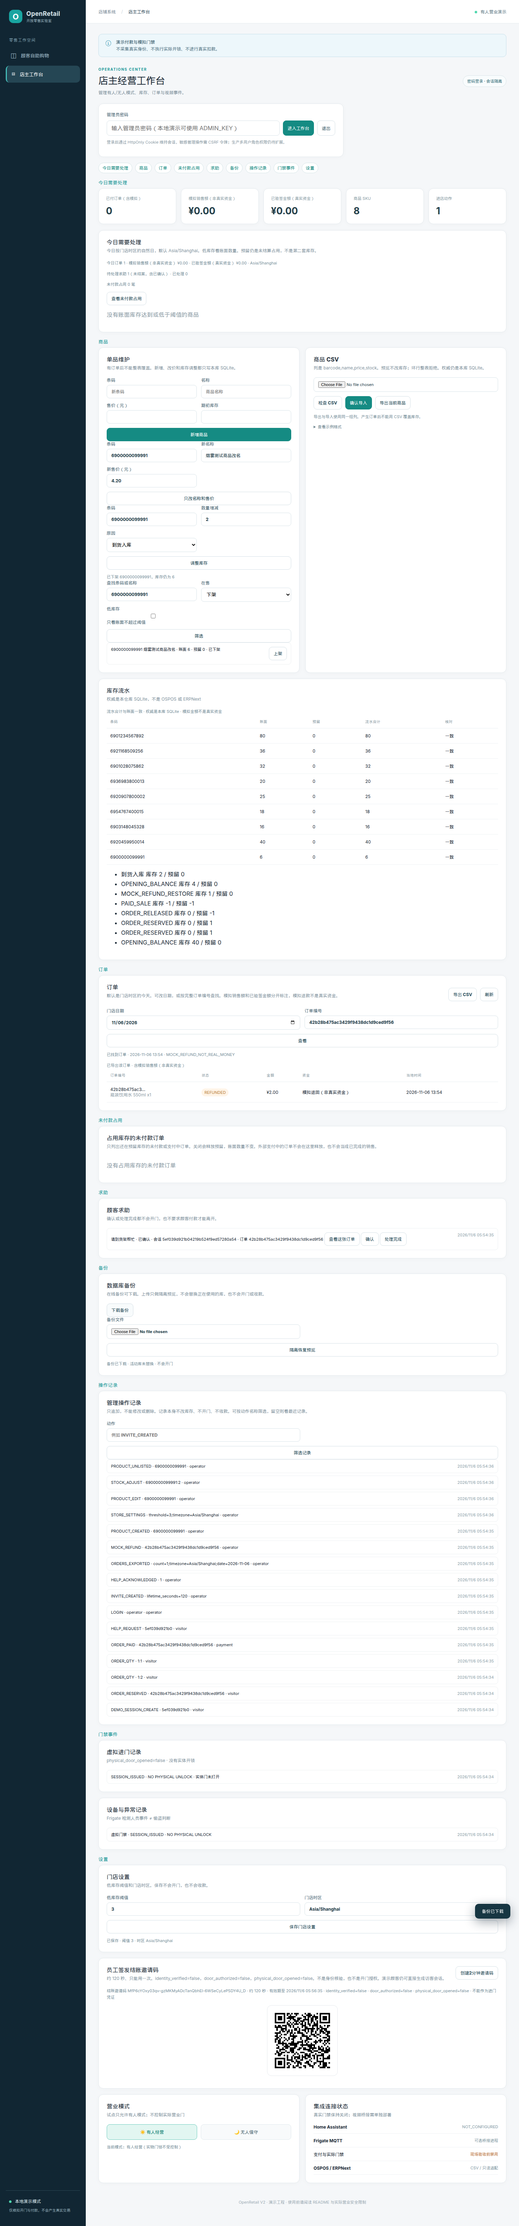
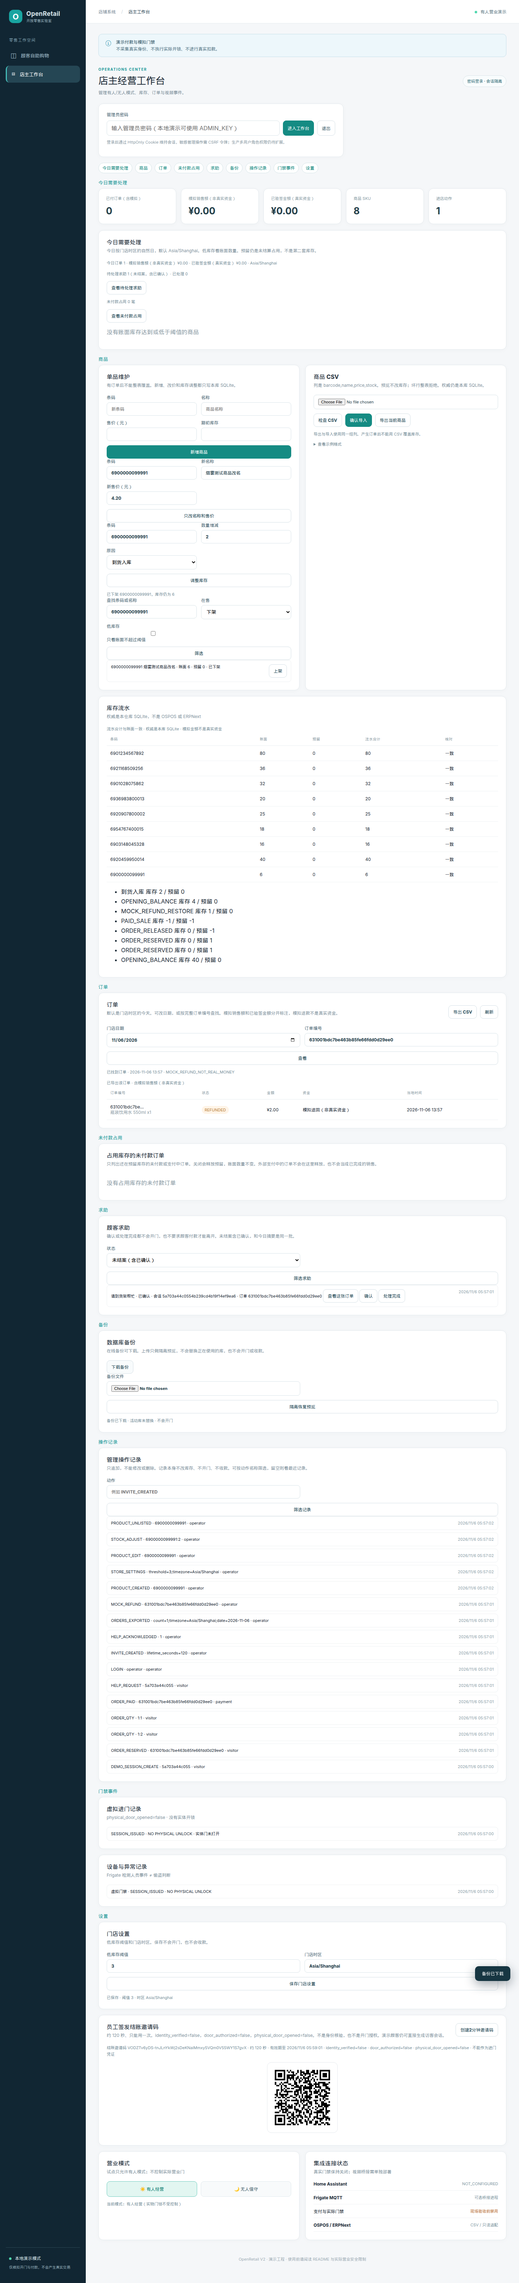
Let staff jump to unfinished help and filter that list by status.
The attention filter is the same OPEN plus ACKNOWLEDGED set as today's summary, and it does not change the notes.

diff --git a/web/app.js b/web/app.js
@@ -51,7 +51,7 @@ async function resumeSavedSession(){if(!state.token)return;try{const status=awai
 async function createOrder(){if(!state.token)throw Error('先创建访客会话');const req={request_id:(crypto.randomUUID?.()||('demo-'+Date.now()+'-'+Math.random())),lines:[...state.cart].map(([product_id,quantity])=>({product_id,quantity}))};let r;try{r=await api('/api/orders',{method:'POST',body:req,guest:true})}catch(e){if((e.message||'').includes('已有待付款订单'))await refreshMine();throw e}rememberOrder(r);$('payment-qr').hidden=true;showPay(r);renderCart();await refreshMine();return r}
 async function confirmMock(){const r=await api('/api/payments/mock-confirm',{method:'POST',body:{order_id:state.orderId},guest:true});showPay(r);if(r.status==='PAID'){state.lastOrderId=r.id||state.orderId;state.cart.clear();state.orderId='';state.orderTotal=null;state.orderLines=null;$('cancel-order-btn').disabled=true;$('pay-btn').disabled=true;await loadProducts()}await refreshMine();return r}
 function fundLabel(order){if(order.status==='PAID'&&order.provider==='MOCK_NOT_REAL_MONEY')return '模拟销售额';if(Number(order.verified)===1)return '已验签真实资金';if(order.status==='REFUNDED'&&order.provider==='MOCK_NOT_REAL_MONEY')return '模拟退回';return '未收款'}
-async function adminRefresh(){if(!state.csrf)return;const [overview,orders,events,ledger,help,catalog,audit,holding]=await Promise.all([api('/api/admin/overview',{admin:true}),api(ordersQuery(),{admin:true}),api('/api/admin/events',{admin:true}),api('/api/admin/inventory-ledger',{admin:true}),api('/api/admin/help-requests',{admin:true}),api(catalogQuery(),{admin:true}),api(auditQuery(),{admin:true}),api('/api/admin/orders/holding',{admin:true})]);$('admin-body').hidden=false;$('m-orders').textContent=overview.paid_orders;$('m-sales').textContent=money(overview.simulated_revenue_cents);$('m-real').textContent=money(overview.verified_revenue_cents);$('today-summary').textContent='今日订单 '+overview.today_order_count+' · 模拟销售额（非真实资金） '+money(overview.today_simulated_revenue_cents)+' · 已验签金额（真实资金） '+money(overview.today_verified_revenue_cents)+' · '+overview.store_timezone;$('low-stock-threshold').value=overview.low_stock_threshold;$('store-timezone').value=overview.store_timezone;if(orders.local_date&&(!$('order-date').value||($('order-lookup').value||'').trim()))$('order-date').value=orders.local_date;const looked=($('order-lookup').value||'').trim();$('order-lookup-status').textContent=looked?(orders.orders&&orders.orders.length?('已找到订单 · '+orders.orders[0].local_time+' · '+(orders.orders[0].money_label==='MOCK_NOT_REAL_MONEY'?'模拟销售额（非真实资金）':(orders.orders[0].money_label||''))):'未找到订单'):('门店日期 '+(orders.local_date||'')+' · '+(orders.orders||[]).length+' 笔');$('admin-catalog').innerHTML=catalog.map(p=>`<div class="event"><span>${esc(p.barcode)} ${esc(p.name)} · 账面 ${p.stock} · 预留 ${p.reserved_stock} · ${p.active?'在售':'已下架'}</span><button class="btn secondary" type="button" data-listing-id="${p.id}" data-listing-barcode="${esc(p.barcode)}" data-listing-active="${p.active?0:1}">${p.active?'下架':'上架'}</button></div>`).join('')||'<p class="muted">没有商品</p>';$('audit-list').innerHTML=(audit.events||[]).map(e=>`<div class="event"><span>${esc(e.action)} · ${esc(e.detail)} · ${esc(e.actor)}</span><time>${time(e.created_at)}</time></div>`).join('')||'<p class="muted">没有操作记录</p>';$('help-attention').textContent='待处理求助 '+overview.help_needs_attention+'（未结案，含已确认） · 已处理 '+overview.help_resolved;$('holding-attention').textContent='未付款占用 '+(holding.orders||[]).length+' 笔';$('low-stock-list').innerHTML=(overview.low_stock||[]).map(p=>`<div class="event"><span>${esc(p.barcode)} ${esc(p.name)} · 账面 ${p.stock} · 预留 ${p.reserved_stock} · 可售 ${p.available_stock}</span><button class="btn secondary" type="button" data-find-product="${esc(p.barcode)}">在商品里查找</button></div>`).join('')||'<p class="muted">没有账面库存达到或低于阈值的商品</p>';$('m-products').textContent=overview.products;$('m-entries').textContent=overview.door_events;$('mode-info').textContent='当前模式：'+(overview.mode==='UNATTENDED'?'无人值守':'有人经营')+'（实物门锁不受控制）';$('ha-state').textContent=overview.home_assistant.status;$('mode-staffed').classList.toggle('selected',overview.mode==='STAFFED');$('mode-unattended').classList.toggle('selected',overview.mode==='UNATTENDED');const todayOrders=orders.orders||[];$('order-table').innerHTML=todayOrders.map(o=>{const refund=o.status==='PAID'&&o.provider==='MOCK_NOT_REAL_MONEY'&&Number(o.verified)!==1?`<button class="btn secondary" type="button" data-mock-refund="${esc(o.id)}">模拟退款</button>`:'';const label=o.money_label==='MOCK_NOT_REAL_MONEY'?'模拟销售额（非真实资金）':o.money_label==='VERIFIED_REAL_MONEY'?'已验签金额（真实资金）':o.money_label==='MOCK_REFUND_NOT_REAL_MONEY'?'模拟退回（非真实资金）':fundLabel(o);return `<tr><td title="${esc(o.id)}">${esc(o.id.slice(0,12))}…<div class="muted">${esc(o.items||'')}</div></td><td><span class="status ${o.status==='PAID'?'paid':''}">${esc(o.status)}</span></td><td>${money(o.total_cents)}</td><td>${esc(label)}</td><td>${esc(o.local_time||'')}</td><td>${refund}</td></tr>`}).join('')||'<tr><td colspan="6">这一天没有订单</td></tr>';$('holding-list').innerHTML=(holding.orders||[]).map(o=>{const action=o.closable?`<button class="btn secondary" type="button" data-close-order="${esc(o.id)}">释放预留</button>`:`<span>${esc(o.note||'不能在这里释放')}</span>`;return `<div class="event"><span>${esc(o.id.slice(0,12))}… · ${esc(o.local_time||'')} · ${money(o.total_cents)} · ${esc(o.status)} · ${esc(o.items||'')} · 未付款 · 非真实资金${o.expires_local?' · 预留至 '+esc(o.expires_local):''}</span>${action}</div>`}).join('')||'<p class="muted">没有占用库存的未付款订单</p>';$('ledger-balance').textContent=(ledger.balanced?'流水合计与账面一致':'流水与账面不一致，需要人工核对')+' · 权威是本库 SQLite · 模拟金额不是真实资金';$('ledger-table').innerHTML=ledger.products.map(p=>`<tr><td>${esc(p.barcode)}</td><td>${p.stock}</td><td>${p.reserved_stock}</td><td>${p.ledger_stock}</td><td>${p.balanced?'一致':'不一致'}</td></tr>`).join('')||'<tr><td colspan="5">没有商品</td></tr>';$('ledger-moves').innerHTML=ledger.movements.slice(0,8).map(m=>`<li>${esc(m.reason)} 库存 ${m.stock_delta} / 预留 ${m.reserved_delta}</li>`).join('');const helpLabel={OPEN:'待处理',ACKNOWLEDGED:'已确认',RESOLVED:'已处理'};$('help-list').innerHTML=(help.requests||[]).map(h=>{const buttons=h.status==='RESOLVED'?'':`<button class="btn secondary" type="button" data-help-id="${esc(h.id)}" data-help-status="ACKNOWLEDGED">确认</button> <button class="btn secondary" type="button" data-help-id="${esc(h.id)}" data-help-status="RESOLVED">处理完成</button>`;const find=h.order_id?`<button class="btn secondary" type="button" data-find-order="${esc(h.order_id)}">查看这张订单</button>`:'';return `<div class="event"><span>${esc(h.message)} · ${esc(helpLabel[h.status]||h.status)} · 会话 ${esc(h.session_id||'无')} · 订单 ${esc(h.order_id||'无')} ${find} ${buttons}</span><time>${time(h.created_at)}</time></div>`}).join('')||'<p class="muted">没有求助</p>';$('door-lock-note').textContent=events.physical_door_opened===false?'physical_door_opened=false · 没有实体开锁':'门状态异常';$('door-event-list').innerHTML=(events.door||[]).map(e=>`<div class="event"><span>${esc(e.result)} · ${esc(e.detail)} · 实体门未打开</span><time>${time(e.created_at)}</time></div>`).join('')||'<p class="muted">没有虚拟进门记录</p>';const incident=events.frigate.map(e=>({name:'Frigate 人员事件 · '+e.camera+' · '+e.event_type,t:e.created_at})),doors=events.door.map(e=>({name:'虚拟门禁 · '+e.result+' · '+e.detail,t:e.created_at}));$('event-list').innerHTML=[...incident,...doors].sort((a,b)=>b.t-a.t).slice(0,15).map(e=>`<div class="event"><span>${esc(e.name)}</span><time>${time(e.t)}</time></div>`).join('')||'<p class="muted">暂无设备事件</p>'}
+async function adminRefresh(){if(!state.csrf)return;const [overview,orders,events,ledger,help,catalog,audit,holding]=await Promise.all([api('/api/admin/overview',{admin:true}),api(ordersQuery(),{admin:true}),api('/api/admin/events',{admin:true}),api('/api/admin/inventory-ledger',{admin:true}),api(helpQuery(),{admin:true}),api(catalogQuery(),{admin:true}),api(auditQuery(),{admin:true}),api('/api/admin/orders/holding',{admin:true})]);$('admin-body').hidden=false;$('m-orders').textContent=overview.paid_orders;$('m-sales').textContent=money(overview.simulated_revenue_cents);$('m-real').textContent=money(overview.verified_revenue_cents);$('today-summary').textContent='今日订单 '+overview.today_order_count+' · 模拟销售额（非真实资金） '+money(overview.today_simulated_revenue_cents)+' · 已验签金额（真实资金） '+money(overview.today_verified_revenue_cents)+' · '+overview.store_timezone;$('low-stock-threshold').value=overview.low_stock_threshold;$('store-timezone').value=overview.store_timezone;if(orders.local_date&&(!$('order-date').value||($('order-lookup').value||'').trim()))$('order-date').value=orders.local_date;const looked=($('order-lookup').value||'').trim();$('order-lookup-status').textContent=looked?(orders.orders&&orders.orders.length?('已找到订单 · '+orders.orders[0].local_time+' · '+(orders.orders[0].money_label==='MOCK_NOT_REAL_MONEY'?'模拟销售额（非真实资金）':(orders.orders[0].money_label||''))):'未找到订单'):('门店日期 '+(orders.local_date||'')+' · '+(orders.orders||[]).length+' 笔');$('admin-catalog').innerHTML=catalog.map(p=>`<div class="event"><span>${esc(p.barcode)} ${esc(p.name)} · 账面 ${p.stock} · 预留 ${p.reserved_stock} · ${p.active?'在售':'已下架'}</span><button class="btn secondary" type="button" data-listing-id="${p.id}" data-listing-barcode="${esc(p.barcode)}" data-listing-active="${p.active?0:1}">${p.active?'下架':'上架'}</button></div>`).join('')||'<p class="muted">没有商品</p>';$('audit-list').innerHTML=(audit.events||[]).map(e=>`<div class="event"><span>${esc(e.action)} · ${esc(e.detail)} · ${esc(e.actor)}</span><time>${time(e.created_at)}</time></div>`).join('')||'<p class="muted">没有操作记录</p>';$('help-attention').textContent='待处理求助 '+overview.help_needs_attention+'（未结案，含已确认） · 已处理 '+overview.help_resolved;$('holding-attention').textContent='未付款占用 '+(holding.orders||[]).length+' 笔';$('low-stock-list').innerHTML=(overview.low_stock||[]).map(p=>`<div class="event"><span>${esc(p.barcode)} ${esc(p.name)} · 账面 ${p.stock} · 预留 ${p.reserved_stock} · 可售 ${p.available_stock}</span><button class="btn secondary" type="button" data-find-product="${esc(p.barcode)}">在商品里查找</button></div>`).join('')||'<p class="muted">没有账面库存达到或低于阈值的商品</p>';$('m-products').textContent=overview.products;$('m-entries').textContent=overview.door_events;$('mode-info').textContent='当前模式：'+(overview.mode==='UNATTENDED'?'无人值守':'有人经营')+'（实物门锁不受控制）';$('ha-state').textContent=overview.home_assistant.status;$('mode-staffed').classList.toggle('selected',overview.mode==='STAFFED');$('mode-unattended').classList.toggle('selected',overview.mode==='UNATTENDED');const todayOrders=orders.orders||[];$('order-table').innerHTML=todayOrders.map(o=>{const refund=o.status==='PAID'&&o.provider==='MOCK_NOT_REAL_MONEY'&&Number(o.verified)!==1?`<button class="btn secondary" type="button" data-mock-refund="${esc(o.id)}">模拟退款</button>`:'';const label=o.money_label==='MOCK_NOT_REAL_MONEY'?'模拟销售额（非真实资金）':o.money_label==='VERIFIED_REAL_MONEY'?'已验签金额（真实资金）':o.money_label==='MOCK_REFUND_NOT_REAL_MONEY'?'模拟退回（非真实资金）':fundLabel(o);return `<tr><td title="${esc(o.id)}">${esc(o.id.slice(0,12))}…<div class="muted">${esc(o.items||'')}</div></td><td><span class="status ${o.status==='PAID'?'paid':''}">${esc(o.status)}</span></td><td>${money(o.total_cents)}</td><td>${esc(label)}</td><td>${esc(o.local_time||'')}</td><td>${refund}</td></tr>`}).join('')||'<tr><td colspan="6">这一天没有订单</td></tr>';$('holding-list').innerHTML=(holding.orders||[]).map(o=>{const action=o.closable?`<button class="btn secondary" type="button" data-close-order="${esc(o.id)}">释放预留</button>`:`<span>${esc(o.note||'不能在这里释放')}</span>`;return `<div class="event"><span>${esc(o.id.slice(0,12))}… · ${esc(o.local_time||'')} · ${money(o.total_cents)} · ${esc(o.status)} · ${esc(o.items||'')} · 未付款 · 非真实资金${o.expires_local?' · 预留至 '+esc(o.expires_local):''}</span>${action}</div>`}).join('')||'<p class="muted">没有占用库存的未付款订单</p>';$('ledger-balance').textContent=(ledger.balanced?'流水合计与账面一致':'流水与账面不一致，需要人工核对')+' · 权威是本库 SQLite · 模拟金额不是真实资金';$('ledger-table').innerHTML=ledger.products.map(p=>`<tr><td>${esc(p.barcode)}</td><td>${p.stock}</td><td>${p.reserved_stock}</td><td>${p.ledger_stock}</td><td>${p.balanced?'一致':'不一致'}</td></tr>`).join('')||'<tr><td colspan="5">没有商品</td></tr>';$('ledger-moves').innerHTML=ledger.movements.slice(0,8).map(m=>`<li>${esc(m.reason)} 库存 ${m.stock_delta} / 预留 ${m.reserved_delta}</li>`).join('');const helpLabel={OPEN:'待处理',ACKNOWLEDGED:'已确认',RESOLVED:'已处理'};$('help-list').innerHTML=(help.requests||[]).map(h=>{const buttons=h.status==='RESOLVED'?'':`<button class="btn secondary" type="button" data-help-id="${esc(h.id)}" data-help-status="ACKNOWLEDGED">确认</button> <button class="btn secondary" type="button" data-help-id="${esc(h.id)}" data-help-status="RESOLVED">处理完成</button>`;const find=h.order_id?`<button class="btn secondary" type="button" data-find-order="${esc(h.order_id)}">查看这张订单</button>`:'';return `<div class="event"><span>${esc(h.message)} · ${esc(helpLabel[h.status]||h.status)} · 会话 ${esc(h.session_id||'无')} · 订单 ${esc(h.order_id||'无')} ${find} ${buttons}</span><time>${time(h.created_at)}</time></div>`}).join('')||'<p class="muted">没有求助</p>';$('door-lock-note').textContent=events.physical_door_opened===false?'physical_door_opened=false · 没有实体开锁':'门状态异常';$('door-event-list').innerHTML=(events.door||[]).map(e=>`<div class="event"><span>${esc(e.result)} · ${esc(e.detail)} · 实体门未打开</span><time>${time(e.created_at)}</time></div>`).join('')||'<p class="muted">没有虚拟进门记录</p>';const incident=events.frigate.map(e=>({name:'Frigate 人员事件 · '+e.camera+' · '+e.event_type,t:e.created_at})),doors=events.door.map(e=>({name:'虚拟门禁 · '+e.result+' · '+e.detail,t:e.created_at}));$('event-list').innerHTML=[...incident,...doors].sort((a,b)=>b.t-a.t).slice(0,15).map(e=>`<div class="event"><span>${esc(e.name)}</span><time>${time(e.t)}</time></div>`).join('')||'<p class="muted">暂无设备事件</p>'}
 async function run(fn){try{await fn()}catch(e){toast(e.message);console.error(e)}}
 document.addEventListener('click',e=>{const findProduct=e.target.closest('[data-find-product]');if(findProduct){run(async()=>{$('catalog-query').value=findProduct.dataset.findProduct;$('catalog-listing').value='all';$('catalog-low-stock').checked=false;const section=document.getElementById('admin-products');if(section)section.scrollIntoView({block:'start'});await adminRefresh()});return}const findOrder=e.target.closest('[data-find-order]');if(findOrder){run(async()=>{ $('order-lookup').value=findOrder.dataset.findOrder;const section=document.getElementById('admin-orders');if(section)section.scrollIntoView({block:'start'});await adminRefresh();if(!$('order-lookup-status').textContent.includes('已找到订单'))throw Error('没有找到这张订单')});return}const closeHold=e.target.closest('[data-close-order]');if(closeHold){run(async()=>{const r=await api('/api/admin/orders/'+closeHold.dataset.closeOrder+'/mock-close',{admin:true,method:'POST'});if(r.real_money||r.remote_call||r.physical_door_opened||r.stock_changed)throw Error('释放预留不应扣账面、收款或开门');toast(r.outcome==='IDEMPOTENT'?'订单已经关闭':'已释放预留，账面库存未扣');await adminRefresh()});return}const refund=e.target.closest('[data-mock-refund]');if(refund){run(async()=>{const r=await api('/api/admin/orders/'+refund.dataset.mockRefund+'/mock-refund',{admin:true,method:'POST'});toast(r.real_money?'异常：模拟退款不应产生真实资金':'模拟退款已回补库存，不是微信退款');await adminRefresh();await loadProducts()});return}const listing=e.target.closest('[data-listing-id]');if(listing){run(async()=>{const r=await api('/api/admin/products/'+listing.dataset.listingId+'/listing',{admin:true,method:'POST',body:{active:listing.dataset.listingActive==='1'}});if(r.stock_changed||r.physical_door_opened||r.real_door_enabled)throw Error('上下架不应改库存或开门');$('product-status').textContent=(r.active?'已上架':'已下架')+' '+r.barcode+'，库存仍为 '+r.stock;await adminRefresh();await loadProducts();toast(r.active?'已上架':'已下架')});return}const helpAction=e.target.closest('[data-help-status]');if(helpAction){run(async()=>{const r=await api('/api/admin/help-requests/'+helpAction.dataset.helpId+'/status',{admin:true,method:'POST',body:{status:helpAction.dataset.helpStatus}});if(r.physical_door_opened||r.payment_required_to_leave||r.door_authorized)throw Error('处理求助不应开门或要求付款');toast(r.status==='RESOLVED'?'求助已处理，门未打开':'已确认求助，门未打开');await adminRefresh()});return}const nav=e.target.closest('[data-panel]');if(nav){document.querySelectorAll('.nav').forEach(n=>n.classList.toggle('active',n===nav));['shop','admin'].forEach(p=>$('panel-'+p).hidden=p!==nav.dataset.panel);$('current-title').textContent=nav.dataset.panel==='shop'?'顾客自助购物':'店主工作台';if(nav.dataset.panel==='admin')run(adminRefresh)}const addButton=e.target.closest('[data-add]');if(addButton){const id=Number(addButton.dataset.add);if(state.orderId){const current=state.cart.get(id)||0;if(!current){toast('已有待付款订单，请先完成付款或取消订单');return}run(()=>changeOrderQty(id,current+1));return}add(id);return}const minus=e.target.closest('[data-minus]');if(minus){const id=Number(minus.dataset.minus);const current=state.cart.get(id)||0;if(state.orderId){run(()=>changeOrderQty(id,Math.max(0,current-1)));return}if(current<=1)state.cart.delete(id);else state.cart.set(id,current-1);$('pay-btn').disabled=true;renderCart()}});
 $('entry-btn').onclick=()=>run(async()=>{const s=await api('/api/entry',{method:'POST'});state.token=s.guest_token;sessionStorage.setItem('retail_guest',state.token);$('entry-result').textContent='访客会话创建成功（未进行身份核验）；有效期至 '+time(s.expires_at);$('door-btn').disabled=false;await showEntryStatus();renderCart();toast('演示访客会话已创建');armBarcodeField()});
@@ -125,11 +125,14 @@ $('orders-export').onclick=()=>run(async()=>{const headers={};if(state.csrf)head
 $('backup-download').onclick=()=>run(async()=>{const headers={};if(state.csrf)headers['X-CSRF-Token']=state.csrf;const res=await fetch('/api/admin/backup',{credentials:'same-origin',cache:'no-store',headers});if(!res.ok)throw Error('备份下载失败');const blob=await res.blob();if(!blob.size)throw Error('备份内容为空');const link=document.createElement('a');link.href=URL.createObjectURL(blob);link.download='openretail-backup.sqlite3';link.click();URL.revokeObjectURL(link.href);$('restore-report').textContent='备份已下载 · 活动库未替换 · 不会开门';toast('备份已下载')});
 $('restore-preview-form').onsubmit=e=>{e.preventDefault();run(async()=>{const file=$('restore-file').files?.[0];if(!file)throw Error('请选择备份文件');const data=new FormData();data.append('file',file);const headers={};if(state.csrf)headers['X-CSRF-Token']=state.csrf;const res=await fetch('/api/admin/restore-preview',{method:'POST',credentials:'same-origin',headers,body:data});const body=await res.json();if(!res.ok)throw Error(typeof body.detail==='string'?body.detail:'隔离预览失败');if(body.live_replaced||body.physical_door_opened||body.real_door_enabled)throw Error('恢复预览不应替换活动库或开门');$('restore-report').textContent='隔离预览 · integrity_check='+body.integrity+' · 商品 '+body.products+' · 订单 '+body.orders+' · 活动库未替换';toast('只预览了隔离副本')})};
 function ordersQuery(){const params=new URLSearchParams();const id=($('order-lookup').value||'').trim();const date=($('order-date').value||'').trim();if(id)params.set('order_id',id);else{params.set('today','1');if(date)params.set('date',date)}const text=params.toString();return '/api/admin/orders'+(text?'?'+text:'')}
+function helpQuery(){const status=($('help-status')&&$('help-status').value||'').trim();return '/api/admin/help-requests'+(status?'?status='+encodeURIComponent(status):'')}
 function auditQuery(){const action=($('audit-action')&&$('audit-action').value||'').trim();return '/api/admin/audit'+(action?'?action='+encodeURIComponent(action):'')}
 function catalogQuery(){const params=new URLSearchParams();const q=($('catalog-query').value||'').trim();const listing=$('catalog-listing').value||'all';if(q)params.set('q',q);if(listing!=='all')params.set('listing',listing);if($('catalog-low-stock').checked)params.set('low_stock','1');const text=params.toString();return '/api/admin/products'+(text?'?'+text:'')}
 async function adminProduct(barcode){const rows=await api('/api/admin/products',{admin:true});const found=rows.find(item=>item.barcode===barcode);if(!found)throw Error('找不到条码 '+barcode);return found}
 $('catalog-filter').onsubmit=e=>{e.preventDefault();run(async()=>{await adminRefresh();toast('已按条码或名称筛选，库存未改')})};
 $('jump-holding').onclick=()=>{const section=document.getElementById('admin-holding');if(section)section.scrollIntoView({block:'start'})};
+$('jump-help').onclick=()=>{if($('help-status'))$('help-status').value='attention';const section=document.getElementById('admin-help');if(section)section.scrollIntoView({block:'start'});run(async()=>{await adminRefresh()})};
+$('help-filter').onsubmit=e=>{e.preventDefault();run(async()=>{await adminRefresh()})};
 $('audit-filter').onsubmit=e=>{e.preventDefault();run(async()=>{await adminRefresh()})};
 $('product-form').onsubmit=e=>{e.preventDefault();run(async()=>{const f=new FormData(e.target);const r=await api('/api/admin/products',{admin:true,method:'POST',body:{barcode:String(f.get('barcode')).trim(),name:String(f.get('name')).trim(),price_cents:Math.round(Number(f.get('price'))*100),stock:Number(f.get('stock')),active:true}});$('product-status').textContent='已新增 '+r.barcode+'，期初库存 '+r.stock+' 已入账';e.target.reset();await adminRefresh();await loadProducts();toast('商品已新增')})};
 $('edit-form').onsubmit=e=>{e.preventDefault();run(async()=>{const f=new FormData(e.target);const before=await adminProduct(String(f.get('barcode')).trim());const r=await api('/api/admin/products/'+before.id,{admin:true,method:'PATCH',body:{name:String(f.get('name')).trim(),price_cents:Math.round(Number(f.get('price'))*100)}});if(r.stock!==before.stock||r.stock_changed)throw Error('改价不应改库存');$('product-status').textContent='已改名称和售价，库存仍为 '+r.stock;await loadProducts();toast('名称和售价已更新')})};

diff --git a/web/index.html b/web/index.html
@@ -56,7 +56,7 @@
         <section id="admin-today" class="admin-section">
           <h2 class="admin-section-title">今日需要处理</h2>
           <div class="metrics"><div class="metric"><span>已付订单（含模拟）</span><strong id="m-orders">—</strong></div><div class="metric"><span>模拟销售额（非真实资金）</span><strong id="m-sales">—</strong></div><div class="metric"><span>已验签金额（真实资金）</span><strong id="m-real">—</strong></div><div class="metric"><span>商品 SKU</span><strong id="m-products">—</strong></div><div class="metric"><span>进店动作</span><strong id="m-entries">—</strong></div></div>
-          <article class="surface" id="ops-summary"><div class="surface-heading"><div><h2>今日需要处理</h2><p>今日按门店时区的自然日，默认 Asia/Shanghai。低库存看账面数量。预留仍是未结算占用，不是第二套库存。</p></div></div><p id="today-summary" class="inline-note">登录后显示</p><p id="help-attention" class="inline-note">求助未结案：—</p><p id="holding-attention" class="inline-note">未付款占用 —</p><button type="button" id="jump-holding" class="btn secondary">查看未付款占用</button><div id="low-stock-list" class="events"><p class="muted">没有达到阈值的商品</p></div></article>
+          <article class="surface" id="ops-summary"><div class="surface-heading"><div><h2>今日需要处理</h2><p>今日按门店时区的自然日，默认 Asia/Shanghai。低库存看账面数量。预留仍是未结算占用，不是第二套库存。</p></div></div><p id="today-summary" class="inline-note">登录后显示</p><p id="help-attention" class="inline-note">求助未结案：—</p><button type="button" id="jump-help" class="btn secondary">查看待处理求助</button><p id="holding-attention" class="inline-note">未付款占用 —</p><button type="button" id="jump-holding" class="btn secondary">查看未付款占用</button><div id="low-stock-list" class="events"><p class="muted">没有达到阈值的商品</p></div></article>
         </section>
         <section id="admin-products" class="admin-section">
           <h2 class="admin-section-title">商品</h2>
@@ -83,7 +83,7 @@
         </section>
         <section id="admin-help" class="admin-section">
           <h2 class="admin-section-title">求助</h2>
-          <article class="surface"><div class="surface-heading"><div><h2>顾客求助</h2><p>确认或处理完成都不会开门，也不要求顾客付款才能离开。</p></div></div><div id="help-list" class="events"><p class="muted">没有求助</p></div></article>
+          <article class="surface"><div class="surface-heading"><div><h2>顾客求助</h2><p>确认或处理完成都不会开门，也不要求顾客付款才能离开。未结案含已确认，和今日摘要是同一批。</p></div></div><form id="help-filter" class="product-form"><label>状态<select id="help-status" name="status"><option value="">全部</option><option value="attention">未结案（含已确认）</option><option value="OPEN">待处理</option><option value="ACKNOWLEDGED">已确认</option><option value="RESOLVED">已处理</option></select></label><button class="btn secondary" type="submit">筛选求助</button></form><div id="help-list" class="events"><p class="muted">没有求助</p></div></article>
         </section>
         <section id="admin-backup" class="admin-section">
           <h2 class="admin-section-title">备份</h2>

diff --git a/tests/test_help_filter.py b/tests/test_help_filter.py
@@ -1,0 +1,49 @@
+"""Help list filter matches the unfinished count and does not change the notes."""
+from conftest import visitor
+
+
+def test_help_attention_filter_is_read_only(client, admin_header):
+    assert client.get('/api/admin/help-requests').status_code==401
+    assert client.get('/api/admin/help-requests?status=attention').status_code==401
+    guest=visitor(client)
+    product=client.get('/api/products').json()[0]
+    with client.app.state.db.connect() as conn:
+        stock=conn.execute('SELECT stock,reserved_stock FROM products WHERE id=?',(product['id'],)).fetchone()
+        moves=conn.execute('SELECT COUNT(*) n FROM stock_movements').fetchone()['n']
+    open_help=client.post('/api/help',json={'message':'还没人看'}).json()
+    seen=client.post('/api/help',json={'message':'已经看到'}).json()
+    done=client.post('/api/help',json={'message':'已经处理好'}).json()
+    assert client.post(f"/api/admin/help-requests/{seen['id']}/status",headers=admin_header,
+                       json={'status':'ACKNOWLEDGED'}).json()['physical_door_opened'] is False
+    resolved=client.post(f"/api/admin/help-requests/{done['id']}/status",headers=admin_header,
+                         json={'status':'RESOLVED'})
+    assert resolved.status_code==200
+    assert resolved.json()['physical_door_opened'] is False
+    assert resolved.json()['door_authorized'] is False and resolved.json()['payment_required_to_leave'] is False
+    mixed=client.get('/api/admin/help-requests',headers=admin_header).json()
+    assert mixed['status']=='' and mixed['physical_door_opened'] is False
+    statuses={row['id']:row['status'] for row in mixed['requests']}
+    assert statuses[open_help['id']]=='OPEN'
+    assert statuses[seen['id']]=='ACKNOWLEDGED'
+    assert statuses[done['id']]=='RESOLVED'
+    attention=client.get('/api/admin/help-requests?status=attention',headers=admin_header).json()
+    assert attention['status']=='attention'
+    attention_ids={row['id'] for row in attention['requests']}
+    assert open_help['id'] in attention_ids and seen['id'] in attention_ids and done['id'] not in attention_ids
+    assert all(row['status'] in ('OPEN','ACKNOWLEDGED') for row in attention['requests'])
+    only_done=client.get('/api/admin/help-requests?status=RESOLVED',headers=admin_header).json()['requests']
+    assert done['id'] in {row['id'] for row in only_done}
+    assert all(row['status']=='RESOLVED' for row in only_done)
+    again=client.get('/api/admin/help-requests',headers=admin_header).json()
+    again_status={row['id']:row['status'] for row in again['requests']}
+    assert again_status[open_help['id']]=='OPEN'
+    assert client.get('/api/admin/inventory-ledger',headers=admin_header).json()['balanced'] is True
+    with client.app.state.db.connect() as conn:
+        now=conn.execute('SELECT stock,reserved_stock FROM products WHERE id=?',(product['id'],)).fetchone()
+        assert now['stock']==stock['stock'] and now['reserved_stock']==stock['reserved_stock']
+        assert conn.execute('SELECT COUNT(*) n FROM stock_movements').fetchone()['n']==moves
+    page=__import__('pathlib').Path('web/index.html').read_text(encoding='utf-8')
+    script=__import__('pathlib').Path('web/app.js').read_text(encoding='utf-8')
+    assert 'id="jump-help"' in page and '查看待处理求助' in page and '没有求助' in page
+    assert '没有求助' in script
+    assert client.post('/api/orders/'+'x'*32+'/refund',headers=guest).status_code==404

diff --git a/openretail/main.py b/openretail/main.py
@@ -1230,12 +1230,25 @@ def create_app(settings:Settings|None=None)->FastAPI:
             'Content-Disposition':f'attachment; filename="{filename}"',
             'X-OpenRetail-Live-Replaced':'false'})
 
-    @app.get('/api/admin/help-requests',dependencies=[Depends(admin)])
-    def admin_help_requests():
+    @app.get('/api/admin/help-requests')
+    def admin_help_requests(status:str=Query(default=''), actor:str=Depends(admin)):
+        """Read help notes. status=attention is OPEN plus ACKNOWLEDGED, the summary's unfinished set."""
+        chosen=status.strip()
+        if chosen=='all':chosen=''
+        if chosen not in ('','attention','OPEN','ACKNOWLEDGED','RESOLVED'):
+            abort(422,'求助筛选只能是全部、未结案或单一状态')
+        sql='SELECT id,session_id,order_id,message,created_at,status FROM help_requests'
+        params=[]
+        if chosen=='attention':
+            sql+=" WHERE status IN ('OPEN','ACKNOWLEDGED')"
+        elif chosen:
+            sql+=' WHERE status=?'
+            params.append(chosen)
+        sql+=' ORDER BY id DESC LIMIT 50'
         with db.connect() as c:
-            rows=[asdict(x) for x in c.execute('''SELECT id,session_id,order_id,message,created_at,status
-                                                  FROM help_requests ORDER BY id DESC LIMIT 50''')]
-        return {'physical_door_opened':False,'payment_required_to_leave':False,'requests':rows}
+            rows=[asdict(x) for x in c.execute(sql,params)]
+        return {'physical_door_opened':False,'payment_required_to_leave':False,'door_authorized':False,
+                'status':chosen,'requests':rows}
 
     @app.post('/api/admin/help-requests/{request_id}/status')
     def update_help_status(request_id:int,payload:HelpStatus, actor:str=Depends(admin)):

diff --git a/scripts/ui_bridge_smoke.py b/scripts/ui_bridge_smoke.py
@@ -86,6 +86,8 @@ with TestClient(create_app(cfg)) as backend,sync_playwright() as pw:
  p.wait_for_function("document.querySelector('#help-list').textContent.includes('请到货架帮忙') && document.querySelector('[data-find-order]')")
  p.locator('[data-find-order]').click()
  p.wait_for_function("document.querySelector('#order-lookup-status').textContent.includes('已找到订单') && document.querySelector('#order-lookup-status').textContent.includes('非真实资金') && document.querySelector('#help-list').textContent.includes('请到货架帮忙') && document.querySelector('#help-list').textContent.includes('待处理')")
+ p.locator('#jump-help').click()
+ p.wait_for_function("document.querySelector('#help-status').value==='attention' && document.querySelector('#help-list').textContent.includes('请到货架帮忙') && document.querySelector('#help-list').textContent.includes('待处理') && !document.querySelector('#help-list').textContent.includes('已确认')")
  p.wait_for_function("document.querySelector('#door-event-list').textContent.includes('SESSION_ISSUED')")
  p.wait_for_function("document.querySelector('#door-lock-note').textContent.includes('physical_door_opened=false')")
  p.locator('#issue-invite').click()

diff --git a/docs/PROJECT_STATUS.md b/docs/PROJECT_STATUS.md
@@ -4,6 +4,17 @@
 
 完全无人值守经营仍是 **NOT_APPROVED**。示例配置里的真实支付和实体开锁都是关闭的。
 
+## 本增量（从今日摘要查看求助）
+
+已在代码和测试里做到，并在本机复跑：
+
+- 「今日需要处理」增加「查看待处理求助」，只滚动到原来的顾客求助区，并把筛选设成未结案（`OPEN` 加 `ACKNOWLEDGED`），和摘要里的未结案数是同一批。也可以改回全部，或只看已处理、待处理、已确认。
+- 没有匹配时仍显示「没有求助」。筛选和跳转不改求助状态，不写库存流水，不开门，不调用支付机构。确认和处理完成仍不把门或离店付款标成 true。未登录仍是 401。
+
+`/tmp/openretail-venv/bin/python -m pytest -q`（工作目录 `/workspace`，Python 3.12.3）：**77 passed，1 warning，8.17s，退出码 0**。警告仍是 Starlette 的 `httpx` TestClient 弃用提示。77 = 上一轮 76 + 本增量 1。
+
+`scripts/ui_bridge_smoke.py` 在去掉密钥环境变量后退出码 0。顾客没有领取邀请码，仍用「生成访客会话」完成 ¥2.00 模拟支付，并含「模拟支付成功 · 非真实资金 · 已扣库存」。点「查看待处理求助」之后，求助仍是「请到货架帮忙」和「待处理」，没有被自动确认；随后的「已确认」仍由原来的按钮完成。390 宽 `scrollWidth` 390，1440 宽 `scrollWidth` 1440，`pageerror` 为空。这仍是 Chrome 到 TestClient 的桥，不是真机，也不是真实收款。这条 PR 仍未合并。
+
 ## 本增量（按动作筛选操作记录）
 
 已在代码和测试里做到，并在本机复跑：
